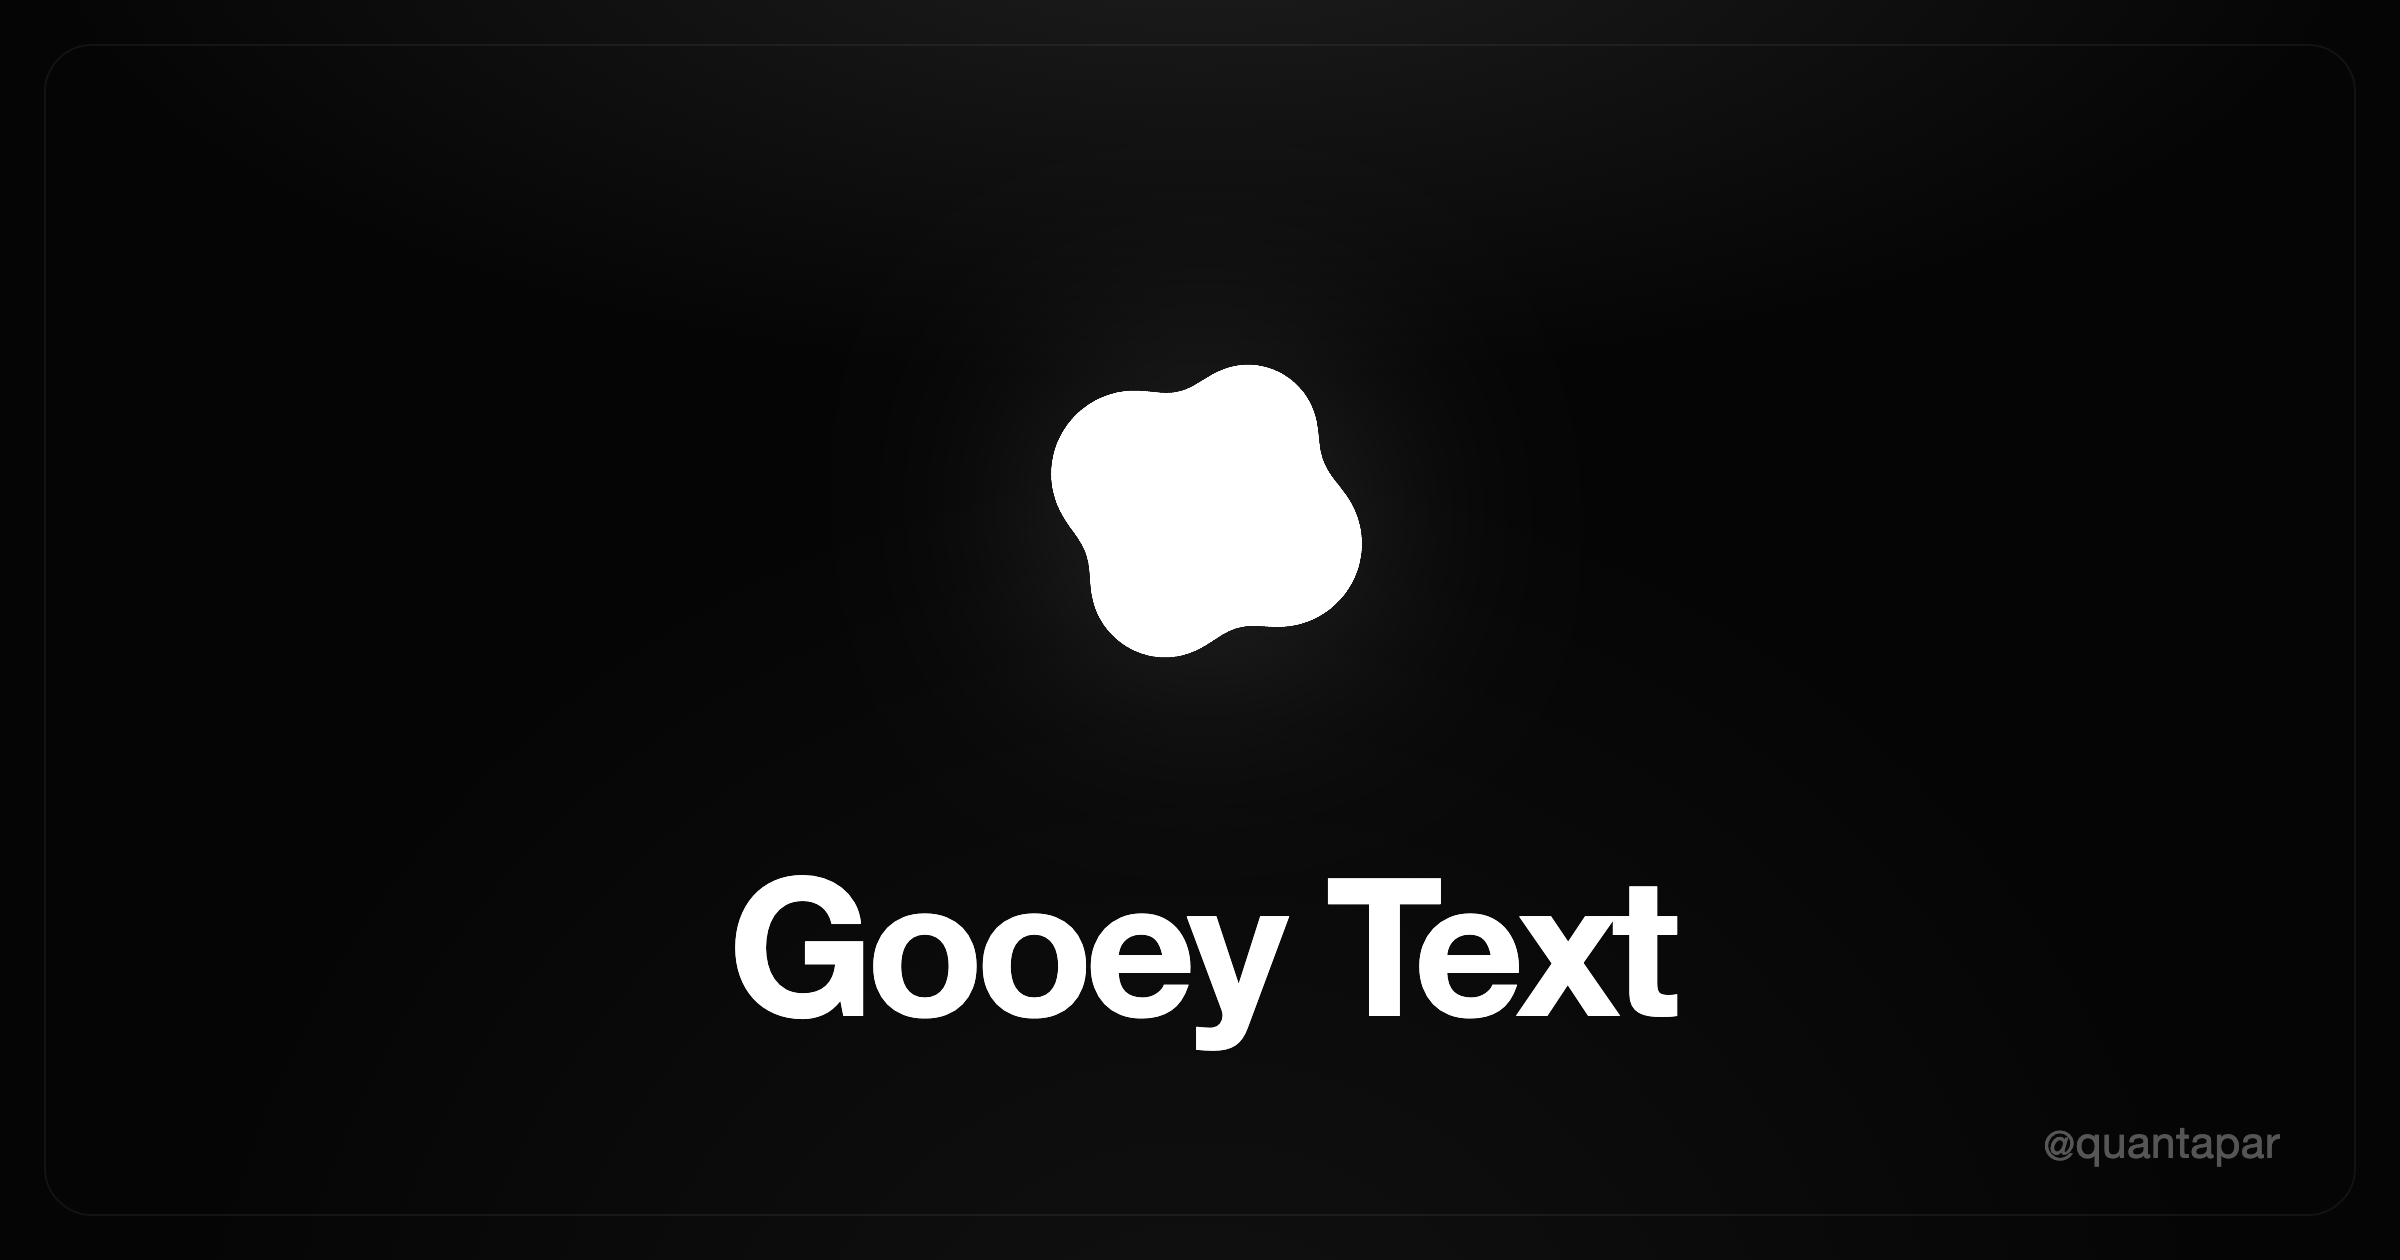
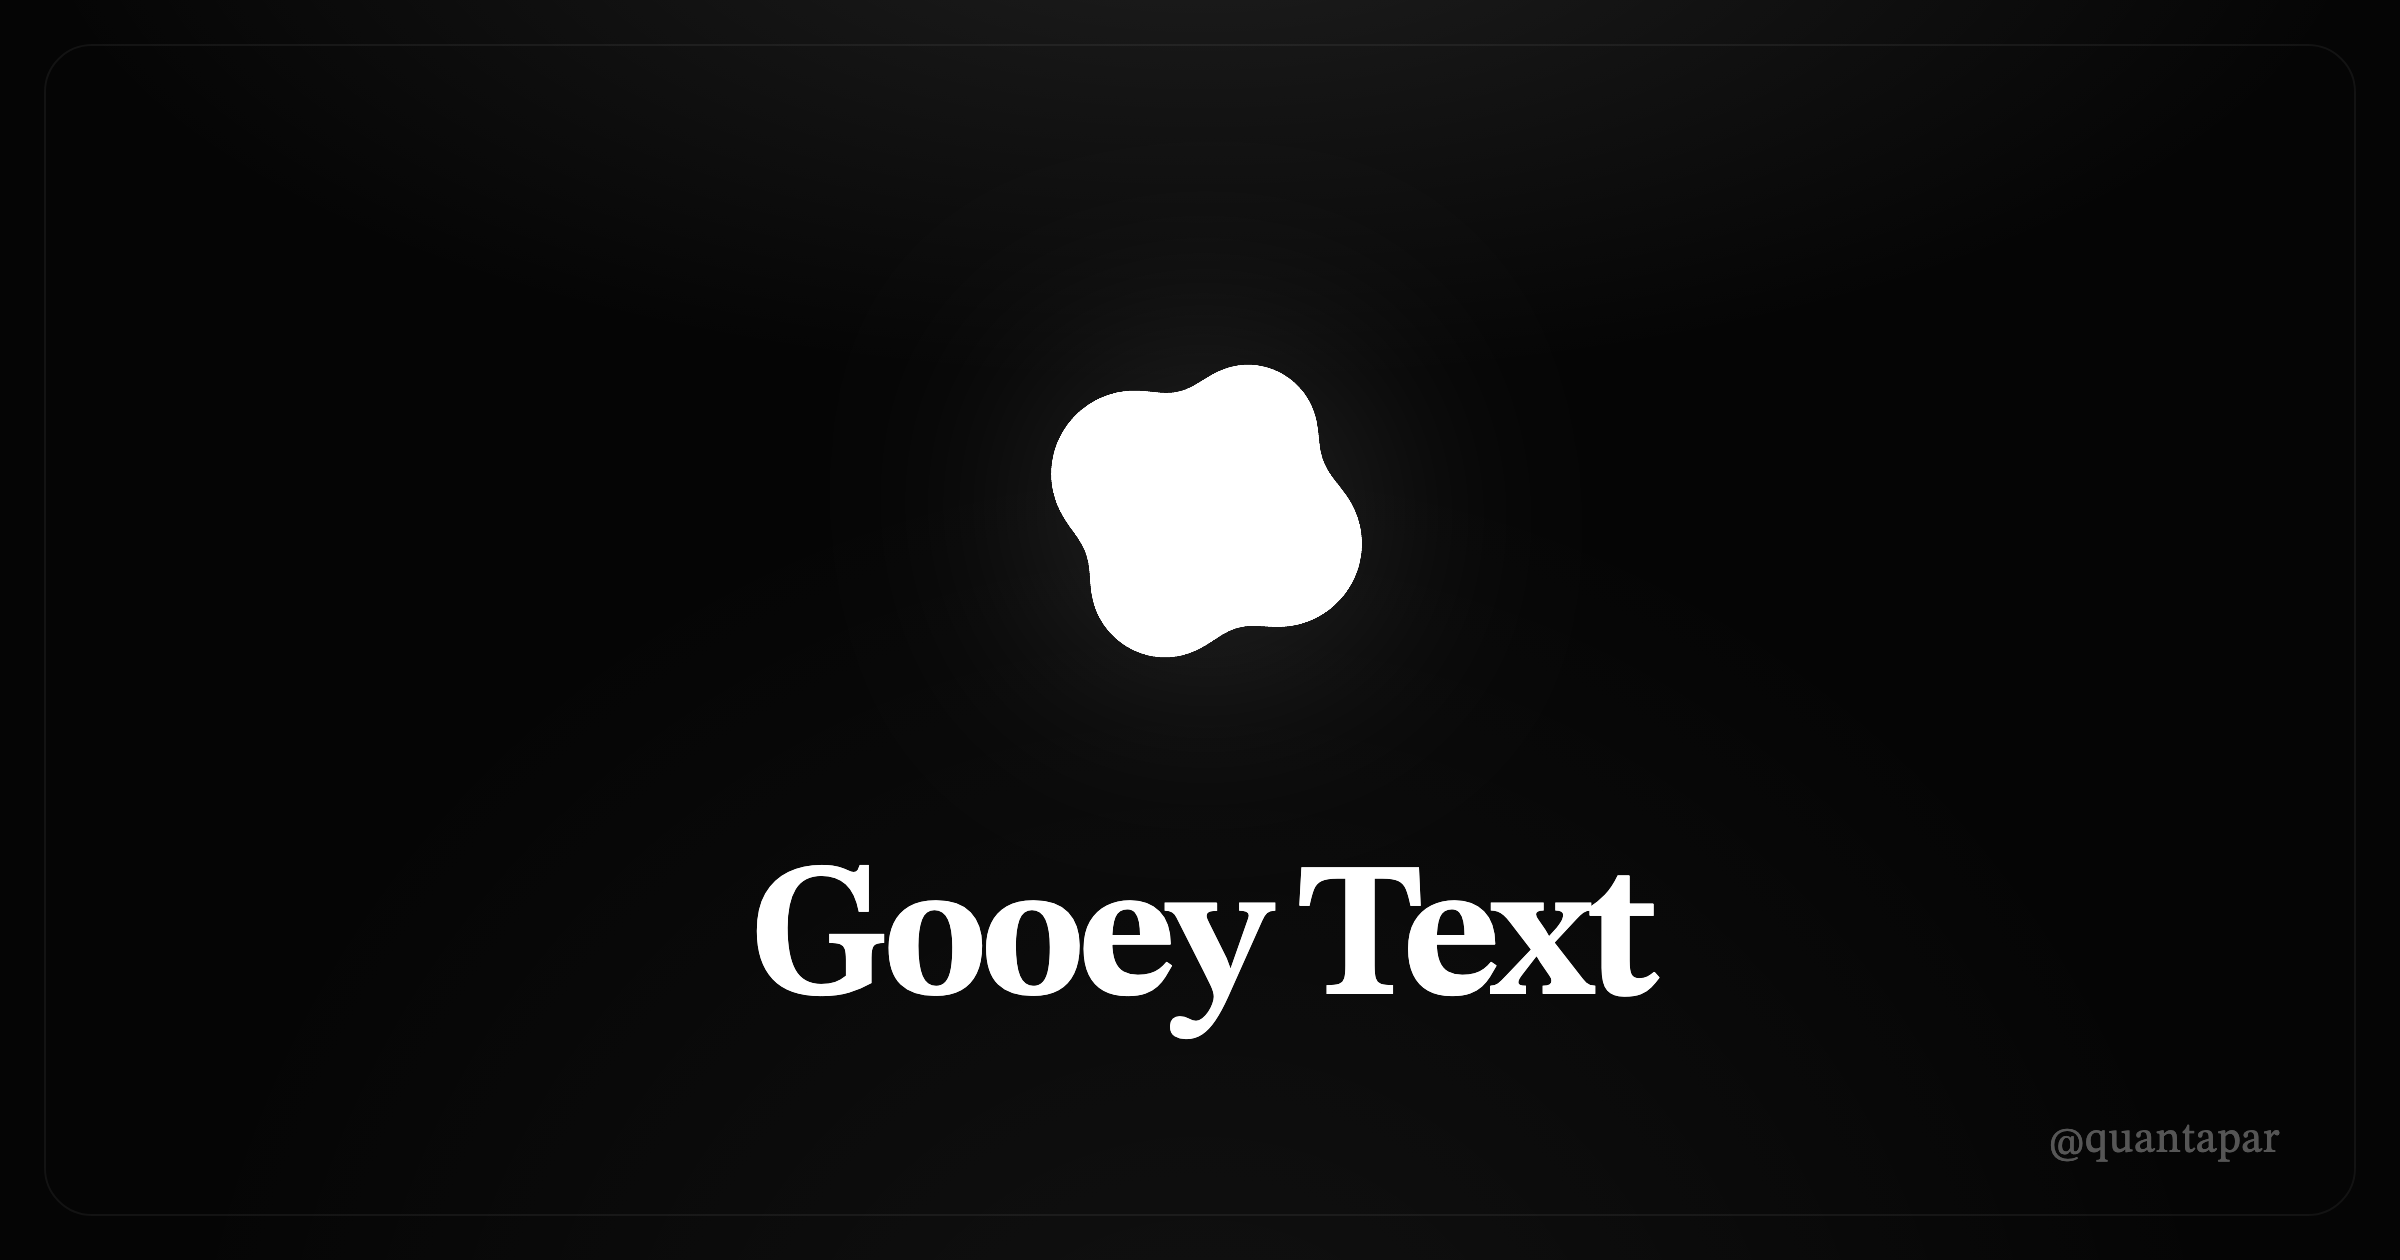
Switch UI + OG typeface to STIX Two Text (serif)
- Set Tailwind --font-sans to "STIX Two Text", Georgia, serif and load the
  font (400/500/700) from Google Fonts in index.html
- OG image uses STIX Two Text too (same sizes/weights, font only)
- Gooey blob letters are an SVG path font and are intentionally unchanged

Changed region(s): [[0.2812, 0.681, 0.7188, 0.8357], [0.8438, 0.8976, 0.9688, 0.9286]]

diff --git a/scripts/og.html b/scripts/og.html
@@ -2,6 +2,12 @@
 <html lang="en">
   <head>
     <meta charset="UTF-8" />
+    <link rel="preconnect" href="https://fonts.googleapis.com" />
+    <link rel="preconnect" href="https://fonts.gstatic.com" crossorigin />
+    <link
+      href="https://fonts.googleapis.com/css2?family=STIX+Two+Text:wght@400;700&display=swap"
+      rel="stylesheet"
+    />
     <style>
       * { margin: 0; padding: 0; box-sizing: border-box; }
       html, body { width: 1200px; height: 630px; }
@@ -12,7 +18,7 @@
         align-items: center;
         justify-content: center;
         gap: 16px;
-        font-family: -apple-system, "Helvetica Neue", system-ui, sans-serif;
+        font-family: "STIX Two Text", Georgia, serif;
         color: #fff;
         background-color: #050505;
         background-image:

diff --git a/src/index.html b/src/index.html
@@ -7,6 +7,14 @@
     <meta name="description" content="Gooey text morph effect driven by your keyboard — built with SVG filters and Framer Motion." />
     <title>Gooey Text</title>
 
+    <!-- UI typeface: STIX Two Text (serif) -->
+    <link rel="preconnect" href="https://fonts.googleapis.com" />
+    <link rel="preconnect" href="https://fonts.gstatic.com" crossorigin />
+    <link
+      href="https://fonts.googleapis.com/css2?family=STIX+Two+Text:wght@400;500;700&display=swap"
+      rel="stylesheet"
+    />
+
     <!-- Social / Open Graph -->
     <meta property="og:type" content="website" />
     <meta property="og:url" content="https://gooey-text.quantapar.com/" />

diff --git a/src/index.css b/src/index.css
@@ -1,5 +1,11 @@
 @import "tailwindcss";
 
+/* Use STIX Two Text (serif) as the UI typeface. The gooey blob letters are an
+   SVG path font and are unaffected by this. */
+@theme {
+  --font-sans: "STIX Two Text", Georgia, serif;
+}
+
 @layer base {
   :root {
     @apply font-sans text-white antialiased;